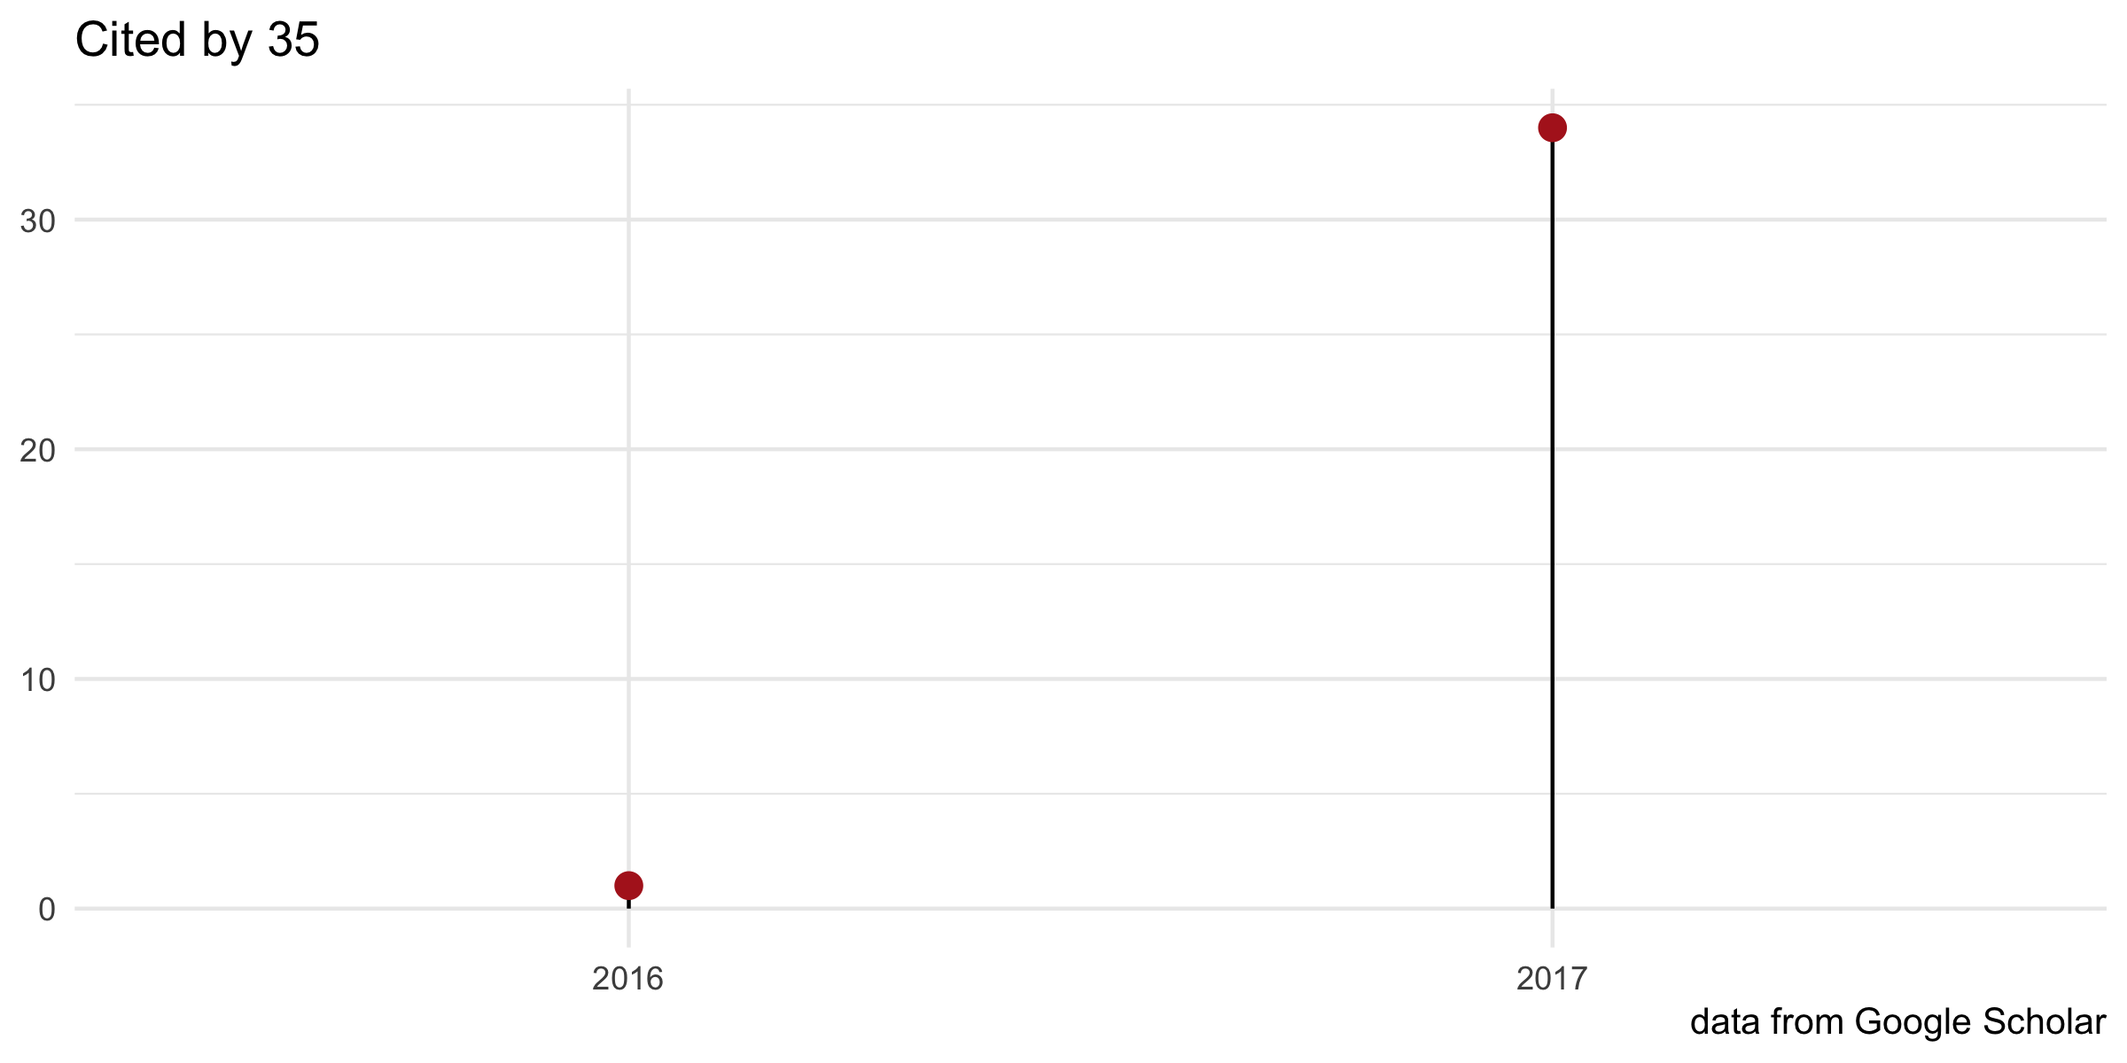
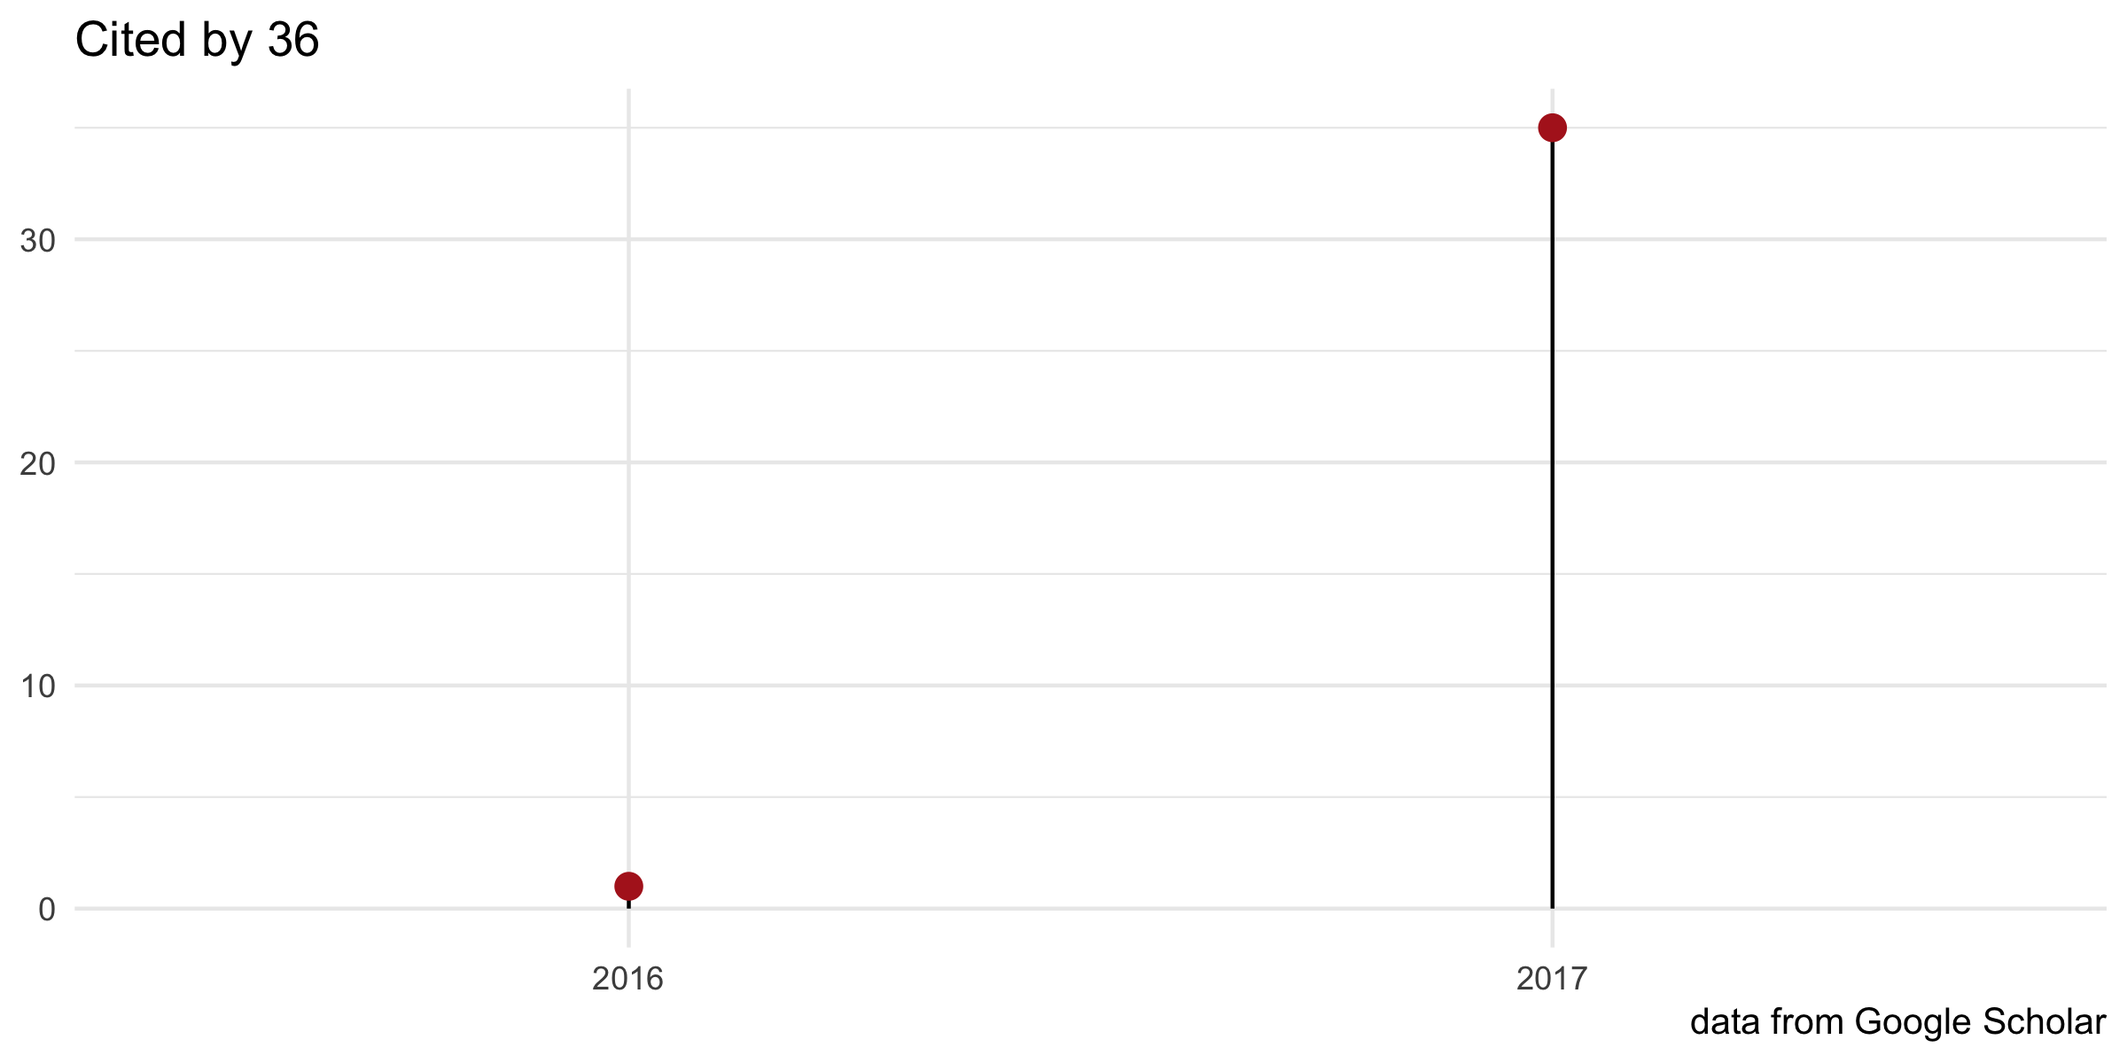
update site

diff --git a/site_src/content/index.html b/site_src/content/index.html
@@ -9,7 +9,7 @@ weight: 1
 
 <p><link rel="stylesheet" href="https://guangchuangyu.github.io/css/font-awesome.min.css"> <link rel="stylesheet" href="https://guangchuangyu.github.io/css/academicons.min.css"></p>
 <p><img src="https://raw.githubusercontent.com/Bioconductor/BiocStickers/master/ggtree/ggtree.png" height="200" align="right" /></p>
-<p><a href="https://bioconductor.org/packages/ggtree"><img src="https://img.shields.io/badge/release%20version-1.8.2-blue.svg?style=flat" alt="releaseVersion" /></a> <a href="https://github.com/guangchuangyu/ggtree"><img src="https://img.shields.io/badge/devel%20version-1.9.4-blue.svg?style=flat" alt="develVersion" /></a> <a href="https://bioconductor.org/packages/stats/bioc/ggtree"><img src="https://img.shields.io/badge/downloads-18441/total-blue.svg?style=flat" alt="total" /></a> <a href="https://bioconductor.org/packages/stats/bioc/ggtree"><img src="https://img.shields.io/badge/downloads-834/month-blue.svg?style=flat" alt="month" /></a></p>
+<p><a href="https://bioconductor.org/packages/ggtree"><img src="https://img.shields.io/badge/release%20version-1.8.2-blue.svg?style=flat" alt="releaseVersion" /></a> <a href="https://github.com/guangchuangyu/ggtree"><img src="https://img.shields.io/badge/devel%20version-1.9.4-blue.svg?style=flat" alt="develVersion" /></a> <a href="https://bioconductor.org/packages/stats/bioc/ggtree"><img src="https://img.shields.io/badge/downloads-18565/total-blue.svg?style=flat" alt="total" /></a> <a href="https://bioconductor.org/packages/stats/bioc/ggtree"><img src="https://img.shields.io/badge/downloads-834/month-blue.svg?style=flat" alt="month" /></a></p>
 <p>The <code>ggtree</code> package extending the <em>ggplot2</em> package. It based on grammar of graphics and takes all the good parts of <em>ggplot2</em>. <em>ggtree</em> is designed for not only viewing phylogenetic tree but also displaying annotation data on the tree. <em>ggtree</em> is released within the <a href="https://bioconductor.org/packages/ggtree/">Bioconductor</a> project and the source code is hosted on <a href="https://github.com/GuangchuangYu/ggtree"><i class="fa fa-github fa-lg"></i> GitHub</a>.</p>
 <div id="authors" class="section level2">
 <h2><i class="fa fa-user"></i> Authors</h2>
@@ -18,7 +18,7 @@ weight: 1
 <div id="citation" class="section level2">
 <h2><i class="fa fa-book"></i> Citation</h2>
 <p>Please cite the following article when using <code>ggtree</code>:</p>
-<p><a href="http://dx.doi.org/10.1111/2041-210X.12628"><img src="https://img.shields.io/badge/doi-10.1111/2041--210X.12628-blue.svg?style=flat" alt="doi" /></a> <a href="https://www.altmetric.com/details/10533079"><img src="https://img.shields.io/badge/Altmetric-346-blue.svg?style=flat" alt="Altmetric" /></a> <a href="https://scholar.google.com.hk/scholar?oi=bibs&amp;hl=en&amp;cites=7268358477862164627"><img src="https://img.shields.io/badge/cited%20by-35-blue.svg?style=flat" alt="citation" /></a></p>
+<p><a href="http://dx.doi.org/10.1111/2041-210X.12628"><img src="https://img.shields.io/badge/doi-10.1111/2041--210X.12628-blue.svg?style=flat" alt="doi" /></a> <a href="https://www.altmetric.com/details/10533079"><img src="https://img.shields.io/badge/Altmetric-345-blue.svg?style=flat" alt="Altmetric" /></a> <a href="https://scholar.google.com.hk/scholar?oi=bibs&amp;hl=en&amp;cites=7268358477862164627"><img src="https://img.shields.io/badge/cited%20by-36-blue.svg?style=flat" alt="citation" /></a></p>
 <p><strong>G Yu</strong>, DK Smith, H Zhu, Y Guan, TTY Lam<sup>*</sup>. ggtree: an R package for visualization and annotation of phylogenetic trees with their covariates and other associated data. <strong><em>Methods in Ecology and Evolution</em></strong>. 2017, 8(1):28-36.</p>
 </div>
 <div id="featured-articles" class="section level2">

diff --git a/docs/index.html b/docs/index.html
@@ -345,7 +345,7 @@
 
 				<p><link rel="stylesheet" href="https://guangchuangyu.github.io/css/font-awesome.min.css"> <link rel="stylesheet" href="https://guangchuangyu.github.io/css/academicons.min.css"></p>
 <p><img src="https://raw.githubusercontent.com/Bioconductor/BiocStickers/master/ggtree/ggtree.png" height="200" align="right" /></p>
-<p><a href="https://bioconductor.org/packages/ggtree"><img src="https://img.shields.io/badge/release%20version-1.8.2-blue.svg?style=flat" alt="releaseVersion" /></a> <a href="https://github.com/guangchuangyu/ggtree"><img src="https://img.shields.io/badge/devel%20version-1.9.4-blue.svg?style=flat" alt="develVersion" /></a> <a href="https://bioconductor.org/packages/stats/bioc/ggtree"><img src="https://img.shields.io/badge/downloads-18441/total-blue.svg?style=flat" alt="total" /></a> <a href="https://bioconductor.org/packages/stats/bioc/ggtree"><img src="https://img.shields.io/badge/downloads-834/month-blue.svg?style=flat" alt="month" /></a></p>
+<p><a href="https://bioconductor.org/packages/ggtree"><img src="https://img.shields.io/badge/release%20version-1.8.2-blue.svg?style=flat" alt="releaseVersion" /></a> <a href="https://github.com/guangchuangyu/ggtree"><img src="https://img.shields.io/badge/devel%20version-1.9.4-blue.svg?style=flat" alt="develVersion" /></a> <a href="https://bioconductor.org/packages/stats/bioc/ggtree"><img src="https://img.shields.io/badge/downloads-18565/total-blue.svg?style=flat" alt="total" /></a> <a href="https://bioconductor.org/packages/stats/bioc/ggtree"><img src="https://img.shields.io/badge/downloads-834/month-blue.svg?style=flat" alt="month" /></a></p>
 <p>The <code>ggtree</code> package extending the <em>ggplot2</em> package. It based on grammar of graphics and takes all the good parts of <em>ggplot2</em>. <em>ggtree</em> is designed for not only viewing phylogenetic tree but also displaying annotation data on the tree. <em>ggtree</em> is released within the <a href="https://bioconductor.org/packages/ggtree/">Bioconductor</a> project and the source code is hosted on <a href="https://github.com/GuangchuangYu/ggtree"><i class="fa fa-github fa-lg"></i> GitHub</a>.</p>
 <div id="authors" class="section level2">
 <h2><i class="fa fa-user"></i> Authors</h2>
@@ -354,7 +354,7 @@
 <div id="citation" class="section level2">
 <h2><i class="fa fa-book"></i> Citation</h2>
 <p>Please cite the following article when using <code>ggtree</code>:</p>
-<p><a href="http://dx.doi.org/10.1111/2041-210X.12628"><img src="https://img.shields.io/badge/doi-10.1111/2041--210X.12628-blue.svg?style=flat" alt="doi" /></a> <a href="https://www.altmetric.com/details/10533079"><img src="https://img.shields.io/badge/Altmetric-346-blue.svg?style=flat" alt="Altmetric" /></a> <a href="https://scholar.google.com.hk/scholar?oi=bibs&amp;hl=en&amp;cites=7268358477862164627"><img src="https://img.shields.io/badge/cited%20by-35-blue.svg?style=flat" alt="citation" /></a></p>
+<p><a href="http://dx.doi.org/10.1111/2041-210X.12628"><img src="https://img.shields.io/badge/doi-10.1111/2041--210X.12628-blue.svg?style=flat" alt="doi" /></a> <a href="https://www.altmetric.com/details/10533079"><img src="https://img.shields.io/badge/Altmetric-345-blue.svg?style=flat" alt="Altmetric" /></a> <a href="https://scholar.google.com.hk/scholar?oi=bibs&amp;hl=en&amp;cites=7268358477862164627"><img src="https://img.shields.io/badge/cited%20by-36-blue.svg?style=flat" alt="citation" /></a></p>
 <p><strong>G Yu</strong>, DK Smith, H Zhu, Y Guan, TTY Lam<sup>*</sup>. ggtree: an R package for visualization and annotation of phylogenetic trees with their covariates and other associated data. <strong><em>Methods in Ecology and Evolution</em></strong>. 2017, 8(1):28-36.</p>
 </div>
 <div id="featured-articles" class="section level2">

diff --git a/site_src/content/tweets/index.html b/site_src/content/tweets/index.html
@@ -8,4 +8,4 @@ weight: 50
 
 <p><link rel="stylesheet" href="https://guangchuangyu.github.io/css/font-awesome.min.css"></p>
 <p><font size="4"><strong>Leave me a message on <a href="https://twitter.com/hashtag/ggtree"><i class="fa fa-twitter fa-lg"></i></a></strong></font></p>
-<p>{{% tweet 899635001247059969 %}}{{% tweet 898729425168080897 %}}{{% tweet 891144389715783680 %}}{{% tweet 883301626022375424 %}}{{% tweet 883246854695256064 %}}{{% tweet 877576023109390336 %}}{{% tweet 875594411584782337 %}}{{% tweet 871775262152810496 %}}{{% tweet 867408666852511744 %}}{{% tweet 857665638600507393 %}}{{% tweet 840181267542994944 %}}{{% tweet 839831849736232962 %}}{{% tweet 830023569887391744 %}}{{% tweet 829398997735313408 %}}{{% tweet 824264788456984576 %}}{{% tweet 822383911258890242 %}}{{% tweet 811666431452450816 %}}{{% tweet 811661275889549312 %}}{{% tweet 797041236867686400 %}}{{% tweet 797037016403820546 %}}{{% tweet 794278716859879424 %}}{{% tweet 831952966701678592 %}}{{% tweet 788751417746059264 %}}{{% tweet 693123105707986944 %}}{{% tweet 691762302492790788 %}}{{% tweet 687933344219312128 %}}{{% tweet 684411780412526592 %}}{{% tweet 665188011047563268 %}}{{% tweet 664040586001915904 %}}{{% tweet 639507420054749184 %}}{{% tweet 671673570259509248 %}}{{% tweet 667490462693912576 %}}{{% tweet 660278158663401473 %}}{{% tweet 641251456595685376 %}}{{% tweet 559734740488818688 %}}{{% tweet 559762891478667264 %}}{{% tweet 561514846291001344 %}}{{% tweet 559542705663905793 %}}{{% tweet 561056244782227456 %}}{{% tweet 664085841766195200 %}}{{% tweet 664431087683260416 %}}{{% tweet 667706456045694976 %}}{{% tweet 663937183791759360 %}}{{% tweet 663771499589861376 %}}{{% tweet 667433534756397057 %}}{{% tweet 640573716733169664 %}}{{% tweet 664407764001779712 %}}{{% tweet 630500659960254464 %}}{{% tweet 547497335412899840 %}}{{% tweet 610364467939913728 %}}</p>
+<p>{{% tweet 903786057182957568 %}}{{% tweet 899635001247059969 %}}{{% tweet 898729425168080897 %}}{{% tweet 891144389715783680 %}}{{% tweet 883301626022375424 %}}{{% tweet 883246854695256064 %}}{{% tweet 877576023109390336 %}}{{% tweet 875594411584782337 %}}{{% tweet 871775262152810496 %}}{{% tweet 867408666852511744 %}}{{% tweet 857665638600507393 %}}{{% tweet 840181267542994944 %}}{{% tweet 839831849736232962 %}}{{% tweet 830023569887391744 %}}{{% tweet 829398997735313408 %}}{{% tweet 824264788456984576 %}}{{% tweet 822383911258890242 %}}{{% tweet 811666431452450816 %}}{{% tweet 811661275889549312 %}}{{% tweet 797041236867686400 %}}{{% tweet 797037016403820546 %}}{{% tweet 794278716859879424 %}}{{% tweet 831952966701678592 %}}{{% tweet 788751417746059264 %}}{{% tweet 693123105707986944 %}}{{% tweet 691762302492790788 %}}{{% tweet 687933344219312128 %}}{{% tweet 684411780412526592 %}}{{% tweet 665188011047563268 %}}{{% tweet 664040586001915904 %}}{{% tweet 639507420054749184 %}}{{% tweet 671673570259509248 %}}{{% tweet 667490462693912576 %}}{{% tweet 660278158663401473 %}}{{% tweet 641251456595685376 %}}{{% tweet 559734740488818688 %}}{{% tweet 559762891478667264 %}}{{% tweet 561514846291001344 %}}{{% tweet 559542705663905793 %}}{{% tweet 561056244782227456 %}}{{% tweet 664085841766195200 %}}{{% tweet 664431087683260416 %}}{{% tweet 667706456045694976 %}}{{% tweet 663937183791759360 %}}{{% tweet 663771499589861376 %}}{{% tweet 667433534756397057 %}}{{% tweet 640573716733169664 %}}{{% tweet 664407764001779712 %}}{{% tweet 630500659960254464 %}}{{% tweet 547497335412899840 %}}{{% tweet 610364467939913728 %}}</p>

diff --git a/docs/tweets/index.html b/docs/tweets/index.html
@@ -344,7 +344,8 @@
 
 			<p><link rel="stylesheet" href="https://guangchuangyu.github.io/css/font-awesome.min.css"></p>
 <p><font size="4"><strong>Leave me a message on <a href="https://twitter.com/hashtag/ggtree"><i class="fa fa-twitter fa-lg"></i></a></strong></font></p>
-<p><blockquote class="twitter-tweet"><p lang="en" dir="ltr">The ggtree package looks like a cool way to visualize hierarchical data<a href="https://t.co/spsqLkqeVG">https://t.co/spsqLkqeVG</a> <a href="https://t.co/GRODlrBahW">pic.twitter.com/GRODlrBahW</a></p>&mdash; lobrowR (@lobrowR) <a href="https://twitter.com/lobrowR/status/899635001247059969">August 21, 2017</a></blockquote>
+<p><blockquote class="twitter-tweet"><p lang="sv" dir="ltr">blog: Introduction to ggplot2 and to ggtree 📝📈👨🔬👩🔬 <a href="https://twitter.com/hashtag/rstats?src=hash">#rstats</a> <a href="https://twitter.com/hashtag/phdchat?src=hash">#phdchat</a> <a href="https://t.co/ndmRitxpeH">https://t.co/ndmRitxpeH</a></p>&mdash; Jean (@JeanManguy) <a href="https://twitter.com/JeanManguy/status/903786057182957568">September 2, 2017</a></blockquote>
+<script async src="//platform.twitter.com/widgets.js" charset="utf-8"></script><blockquote class="twitter-tweet"><p lang="en" dir="ltr">The ggtree package looks like a cool way to visualize hierarchical data<a href="https://t.co/spsqLkqeVG">https://t.co/spsqLkqeVG</a> <a href="https://t.co/GRODlrBahW">pic.twitter.com/GRODlrBahW</a></p>&mdash; lobrowR (@lobrowR) <a href="https://twitter.com/lobrowR/status/899635001247059969">August 21, 2017</a></blockquote>
 <script async src="//platform.twitter.com/widgets.js" charset="utf-8"></script><blockquote class="twitter-tweet"><p lang="en" dir="ltr">New ggtree-based visualization in R package phylofactor! Below are the top three factors (= 4 bins) of mammalian body mass. <a href="https://t.co/ruT4OZF7gW">pic.twitter.com/ruT4OZF7gW</a></p>&mdash; Alex Washburne (@alex_washburne) <a href="https://twitter.com/alex_washburne/status/898729425168080897">August 19, 2017</a></blockquote>
 <script async src="//platform.twitter.com/widgets.js" charset="utf-8"></script><blockquote class="twitter-tweet"><p lang="en" dir="ltr">Possible to combine <a href="https://twitter.com/hashtag/ggjoy?src=hash">#ggjoy</a> with <a href="https://twitter.com/hashtag/ggtree?src=hash">#ggtree</a> ? My gg-fu is weak. <a href="https://twitter.com/hashtag/rstats?src=hash">#rstats</a> <a href="https://twitter.com/hashtag/DataViz?src=hash">#DataViz</a> <a href="https://twitter.com/hashtag/JoyPlot?src=hash">#JoyPlot</a> <a href="https://t.co/4FICfER6Oa">https://t.co/4FICfER6Oa</a></p>&mdash; Libby Megna (@LibbyMegna) <a href="https://twitter.com/LibbyMegna/status/891144389715783680">July 29, 2017</a></blockquote>
 <script async src="//platform.twitter.com/widgets.js" charset="utf-8"></script><blockquote class="twitter-tweet"><p lang="en" dir="ltr">Second post with an update on how to add tip shapes and colours to ggtree <a href="https://t.co/ezWF4TVQst">https://t.co/ezWF4TVQst</a></p>&mdash; Anthony Underwood (@bioinformAnt) <a href="https://twitter.com/bioinformAnt/status/883301626022375424">July 7, 2017</a></blockquote>

diff --git a/README.md b/README.md
@@ -4,9 +4,9 @@ ggtree: an R package for visualization and annotation of phylogenetic trees with
 
 <img src="https://raw.githubusercontent.com/Bioconductor/BiocStickers/master/ggtree/ggtree.png" height="200" align="right" />
 
-[![releaseVersion](https://img.shields.io/badge/release%20version-1.8.2-green.svg?style=flat)](https://bioconductor.org/packages/ggtree) [![develVersion](https://img.shields.io/badge/devel%20version-1.9.4-green.svg?style=flat)](https://github.com/guangchuangyu/ggtree) [![Bioc](http://www.bioconductor.org/shields/years-in-bioc/ggtree.svg)](https://www.bioconductor.org/packages/devel/bioc/html/ggtree.html#since) [![total](https://img.shields.io/badge/downloads-18441/total-blue.svg?style=flat)](https://bioconductor.org/packages/stats/bioc/ggtree) [![month](https://img.shields.io/badge/downloads-834/month-blue.svg?style=flat)](https://bioconductor.org/packages/stats/bioc/ggtree)
+[![releaseVersion](https://img.shields.io/badge/release%20version-1.8.2-green.svg?style=flat)](https://bioconductor.org/packages/ggtree) [![develVersion](https://img.shields.io/badge/devel%20version-1.9.4-green.svg?style=flat)](https://github.com/guangchuangyu/ggtree) [![Bioc](http://www.bioconductor.org/shields/years-in-bioc/ggtree.svg)](https://www.bioconductor.org/packages/devel/bioc/html/ggtree.html#since) [![total](https://img.shields.io/badge/downloads-18565/total-blue.svg?style=flat)](https://bioconductor.org/packages/stats/bioc/ggtree) [![month](https://img.shields.io/badge/downloads-834/month-blue.svg?style=flat)](https://bioconductor.org/packages/stats/bioc/ggtree)
 
-[![Project Status: Active - The project has reached a stable, usable state and is being actively developed.](http://www.repostatus.org/badges/latest/active.svg)](http://www.repostatus.org/#active) [![codecov](https://codecov.io/gh/GuangchuangYu/ggtree/branch/master/graph/badge.svg)](https://codecov.io/gh/GuangchuangYu/ggtree) [![Last-changedate](https://img.shields.io/badge/last%20change-2017--08--30-green.svg)](https://github.com/GuangchuangYu/ggtree/commits/master) [![GitHub forks](https://img.shields.io/github/forks/GuangchuangYu/ggtree.svg)](https://github.com/GuangchuangYu/ggtree/network) [![GitHub stars](https://img.shields.io/github/stars/GuangchuangYu/ggtree.svg)](https://github.com/GuangchuangYu/ggtree/stargazers) [![Awesome](https://cdn.rawgit.com/sindresorhus/awesome/d7305f38d29fed78fa85652e3a63e154dd8e8829/media/badge.svg)](https://awesome-r.com/#awesome-r-graphic-displays)
+[![Project Status: Active - The project has reached a stable, usable state and is being actively developed.](http://www.repostatus.org/badges/latest/active.svg)](http://www.repostatus.org/#active) [![codecov](https://codecov.io/gh/GuangchuangYu/ggtree/branch/master/graph/badge.svg)](https://codecov.io/gh/GuangchuangYu/ggtree) [![Last-changedate](https://img.shields.io/badge/last%20change-2017--09--04-green.svg)](https://github.com/GuangchuangYu/ggtree/commits/master) [![GitHub forks](https://img.shields.io/github/forks/GuangchuangYu/ggtree.svg)](https://github.com/GuangchuangYu/ggtree/network) [![GitHub stars](https://img.shields.io/github/stars/GuangchuangYu/ggtree.svg)](https://github.com/GuangchuangYu/ggtree/stargazers) [![Awesome](https://cdn.rawgit.com/sindresorhus/awesome/d7305f38d29fed78fa85652e3a63e154dd8e8829/media/badge.svg)](https://awesome-r.com/#awesome-r-graphic-displays)
 
 [![platform](http://www.bioconductor.org/shields/availability/devel/ggtree.svg)](https://www.bioconductor.org/packages/devel/bioc/html/ggtree.html#archives) [![Build Status](http://www.bioconductor.org/shields/build/devel/bioc/ggtree.svg)](https://bioconductor.org/checkResults/devel/bioc-LATEST/ggtree/) [![Linux/Mac Travis Build Status](https://img.shields.io/travis/GuangchuangYu/ggtree/master.svg?label=Mac%20OSX%20%26%20Linux)](https://travis-ci.org/GuangchuangYu/ggtree) [![AppVeyor Build Status](https://img.shields.io/appveyor/ci/Guangchuangyu/ggtree/master.svg?label=Windows)](https://ci.appveyor.com/project/GuangchuangYu/ggtree) [![Backers on Open Collective](https://opencollective.com/ggtree/backers/badge.svg)](#backers) [![Sponsors on Open Collective](https://opencollective.com/ggtree/sponsors/badge.svg)](#sponsors)
 
@@ -27,7 +27,7 @@ Please cite the following article when using `ggtree`:
 
 **G Yu**, DK Smith, H Zhu, Y Guan, TTY Lam<sup>\*</sup>. ggtree: an R package for visualization and annotation of phylogenetic trees with their covariates and other associated data. ***Methods in Ecology and Evolution***. 2017, 8(1):28-36.
 
-[![doi](https://img.shields.io/badge/doi-10.1111/2041--210X.12628-green.svg?style=flat)](http://dx.doi.org/10.1111/2041-210X.12628) [![Altmetric](https://img.shields.io/badge/Altmetric-346-green.svg?style=flat)](https://www.altmetric.com/details/10533079) [![citation](https://img.shields.io/badge/cited%20by-35-green.svg?style=flat)](https://scholar.google.com.hk/scholar?oi=bibs&hl=en&cites=7268358477862164627)
+[![doi](https://img.shields.io/badge/doi-10.1111/2041--210X.12628-green.svg?style=flat)](http://dx.doi.org/10.1111/2041-210X.12628) [![Altmetric](https://img.shields.io/badge/Altmetric-345-green.svg?style=flat)](https://www.altmetric.com/details/10533079) [![citation](https://img.shields.io/badge/cited%20by-36-green.svg?style=flat)](https://scholar.google.com.hk/scholar?oi=bibs&hl=en&cites=7268358477862164627)
 
 ------------------------------------------------------------------------
 
@@ -37,7 +37,7 @@ Please cite the following article when using `ggtree`:
 
 ### Download stats
 
-[![download](http://www.bioconductor.org/shields/downloads/ggtree.svg)](https://bioconductor.org/packages/stats/bioc/ggtree) [![total](https://img.shields.io/badge/downloads-18441/total-blue.svg?style=flat)](https://bioconductor.org/packages/stats/bioc/ggtree) [![month](https://img.shields.io/badge/downloads-834/month-blue.svg?style=flat)](https://bioconductor.org/packages/stats/bioc/ggtree)
+[![download](http://www.bioconductor.org/shields/downloads/ggtree.svg)](https://bioconductor.org/packages/stats/bioc/ggtree) [![total](https://img.shields.io/badge/downloads-18565/total-blue.svg?style=flat)](https://bioconductor.org/packages/stats/bioc/ggtree) [![month](https://img.shields.io/badge/downloads-834/month-blue.svg?style=flat)](https://bioconductor.org/packages/stats/bioc/ggtree)
 
 <img src="docs/images/dlstats.png" width="890"/>
 
